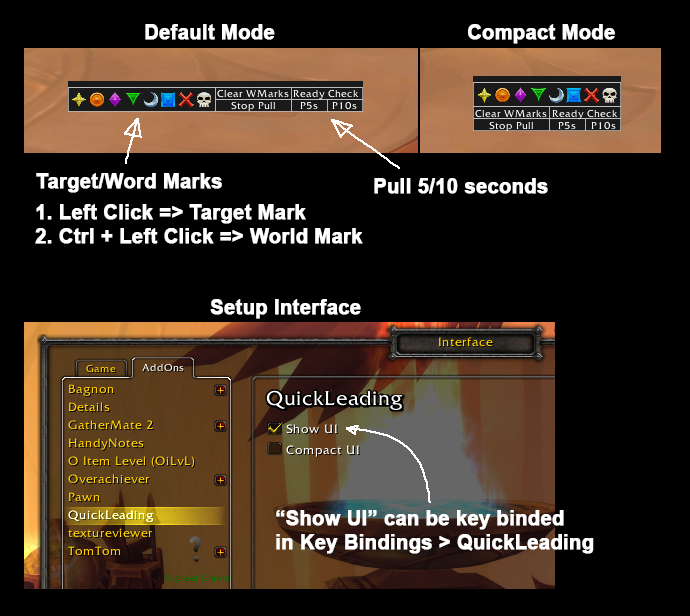
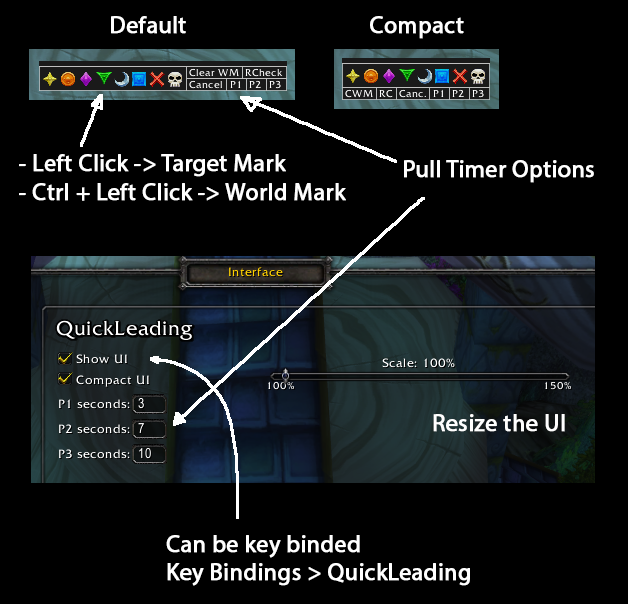
Changelog: - More compact UI (both modes). - Pull buttons was replaced with 3 buttons to whom can be setted the seconds (Interface > QuickLeading). - Option to scale the UI (Interface > QuickLeading).

diff --git a/README.md b/README.md
@@ -12,25 +12,31 @@
             <li>Ctrl + Left Click --> World Mark</li>
         </ul>
     </li>
-    <li>Clear Word Marks (WMarks)</li>
-    <li>Ready Check</li>
-    <li>Pull 7/10 seconds</li>
-    <li>Stop pull</li>
-    <li>Command `/qlpull` for custom timer</li>
+    <li>Clear Word Marks (Clear WM / CWM)</li>
+    <li>Ready Check (RCheck / RC)</li>
+    <li>Three pull timer options (P1, P2, P3)</li>
+    <li>Cancel pull timer (Cancel / Canc.)</li>
+    <li>Command `/qlpull` for custom pull timer</li>
+    <li>Pull timer with countdown in chat and DBM/BigWigs</li>
 </ul>
+<br>
 <p>UI Modes:</p>
 <ul>
     <li>Linear (Default)</li>
     <li>Compact</li>
 </ul>
-
-<p>Setup Interface (Interface > AddOns > QuickLeading)</p>
+<br>
+<p>Setup Interface (Interface > AddOns > QuickLeading): </p>
+<up>
+    <li>Mode</li>
+    <li>P1/P2/P3 seconds</li>
+    <li>Scale</li>
+</up>
+<br>
 <p>Key binding for toggling UI (Key Bindings > QuickLeading)</p>
 
-<p><b>The Pull commands have been tested on DBM and BigWigs.</b></p> 
+<p>Author: raul1ro (discord)</p>
 
-<p>Author: DoomFury - Felsong (private-server)</p>
-
-<p>If you have any suggestion or found a bug, feel free to type me in game, or create an issue on Github.</p>
+<p>If you have any suggestion, found a bug or need help, feel free to type to me in discord or create an issue on Github.</p>
 
 <img src="presentation.png" alt="Presentation">
